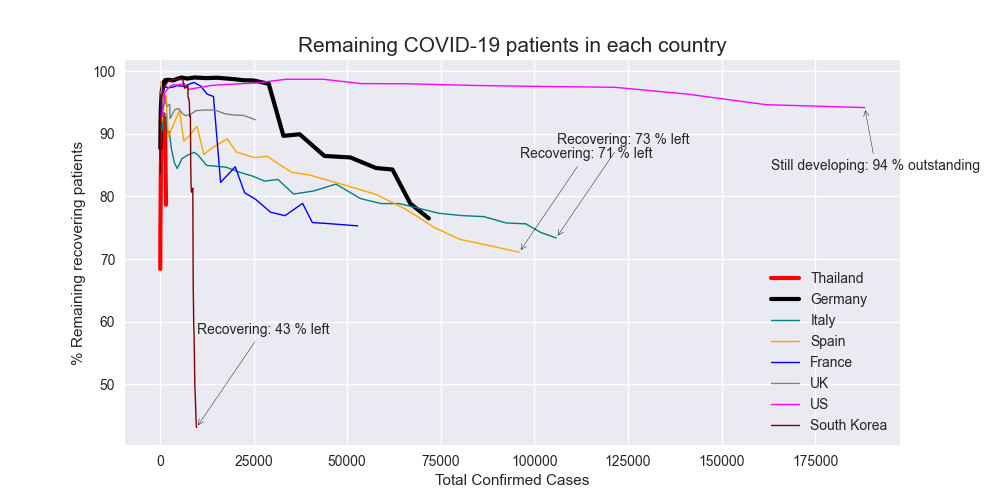
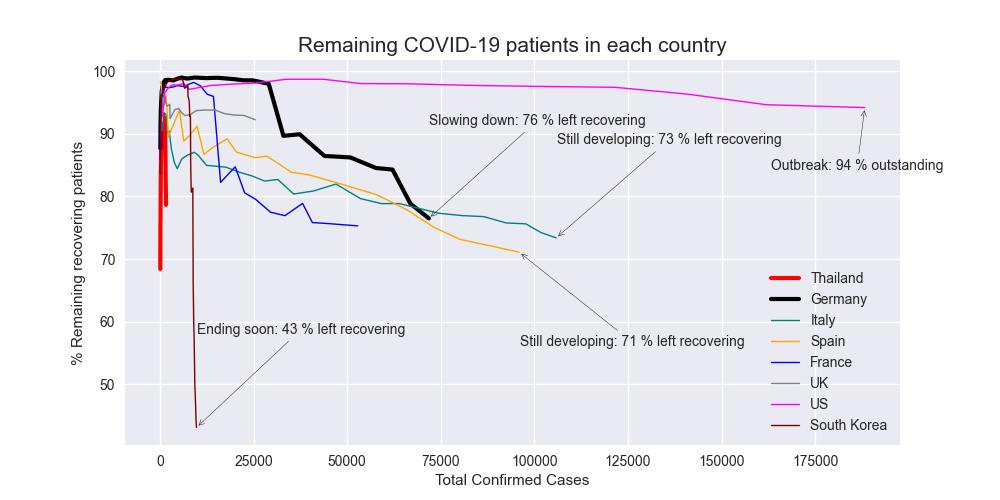
updated plots

diff --git a/covid19/plot.py b/covid19/plot.py
@@ -335,20 +335,29 @@ def plot_remaining_patients_vs_confirms(figno, step, countries, max_days=None, h
     thick = 3 if c in highlight else 1
     plt.plot(cnt["ratio_outstanding"]*100, label=c, linewidth=thick, color=markers[c])
 
-    if c in ["Spain","Italy","South Korea"]:
+    keys = {
+      "Spain": "Still developing",
+      "Italy": "Still developing",
+      "Germany": "Slowing down",
+      "South Korea": "Ending soon"
+    }
+
+    if c in keys:
       last_y = cnt["ratio_outstanding"].tail(1).tolist()[0]*100
       last_x = cnt.tail(1).index.tolist()[0]
 
-      strcase = "Recovering: {:.0f} % left".format(last_y)
+      y_pos = last_y-15 if c=="Spain" else last_y+15
+
+      strcase = "{}: {:.0f} % left recovering".format(keys[c], last_y)
       plt.annotate(strcase,
         xy=(last_x,last_y),
-        xytext=(last_x+100,last_y+15), arrowprops=dict(arrowstyle="->"))
+        xytext=(last_x+100,y_pos), arrowprops=dict(arrowstyle="->"))
 
     if c in ["US"]:
       last_y = cnt["ratio_outstanding"].tail(1).tolist()[0]*100
       last_x = cnt.tail(1).index.tolist()[0]
 
-      strcase = "Still developing: {:.0f} % outstanding".format(last_y)
+      strcase = "Outbreak: {:.0f} % outstanding".format(last_y)
       plt.annotate(strcase, 
         xy=(last_x,last_y),
         xytext=(last_x-25000,last_y-10), arrowprops=dict(arrowstyle="->"))
